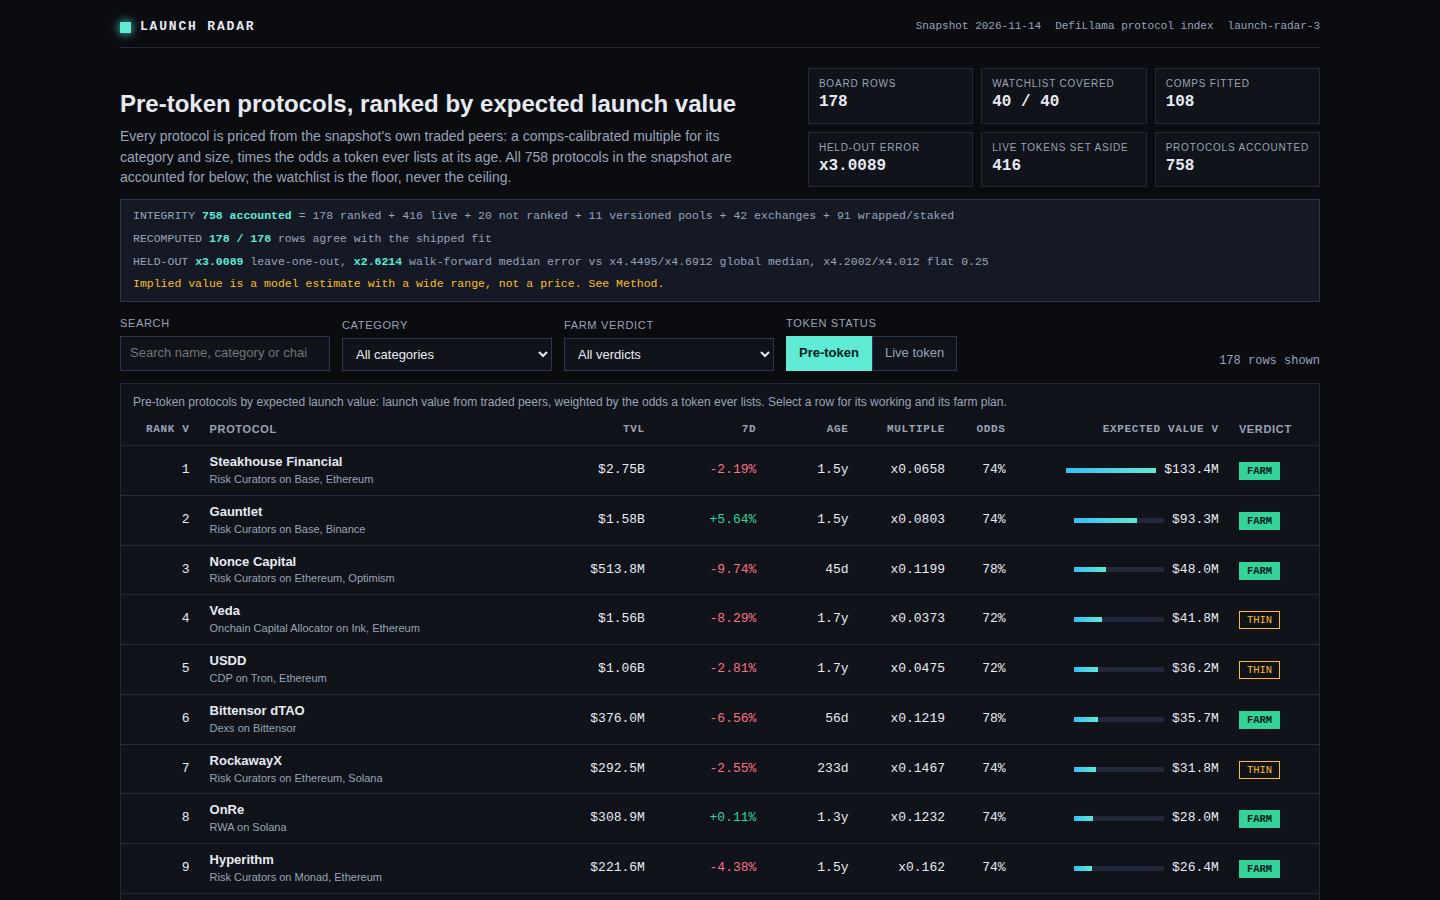
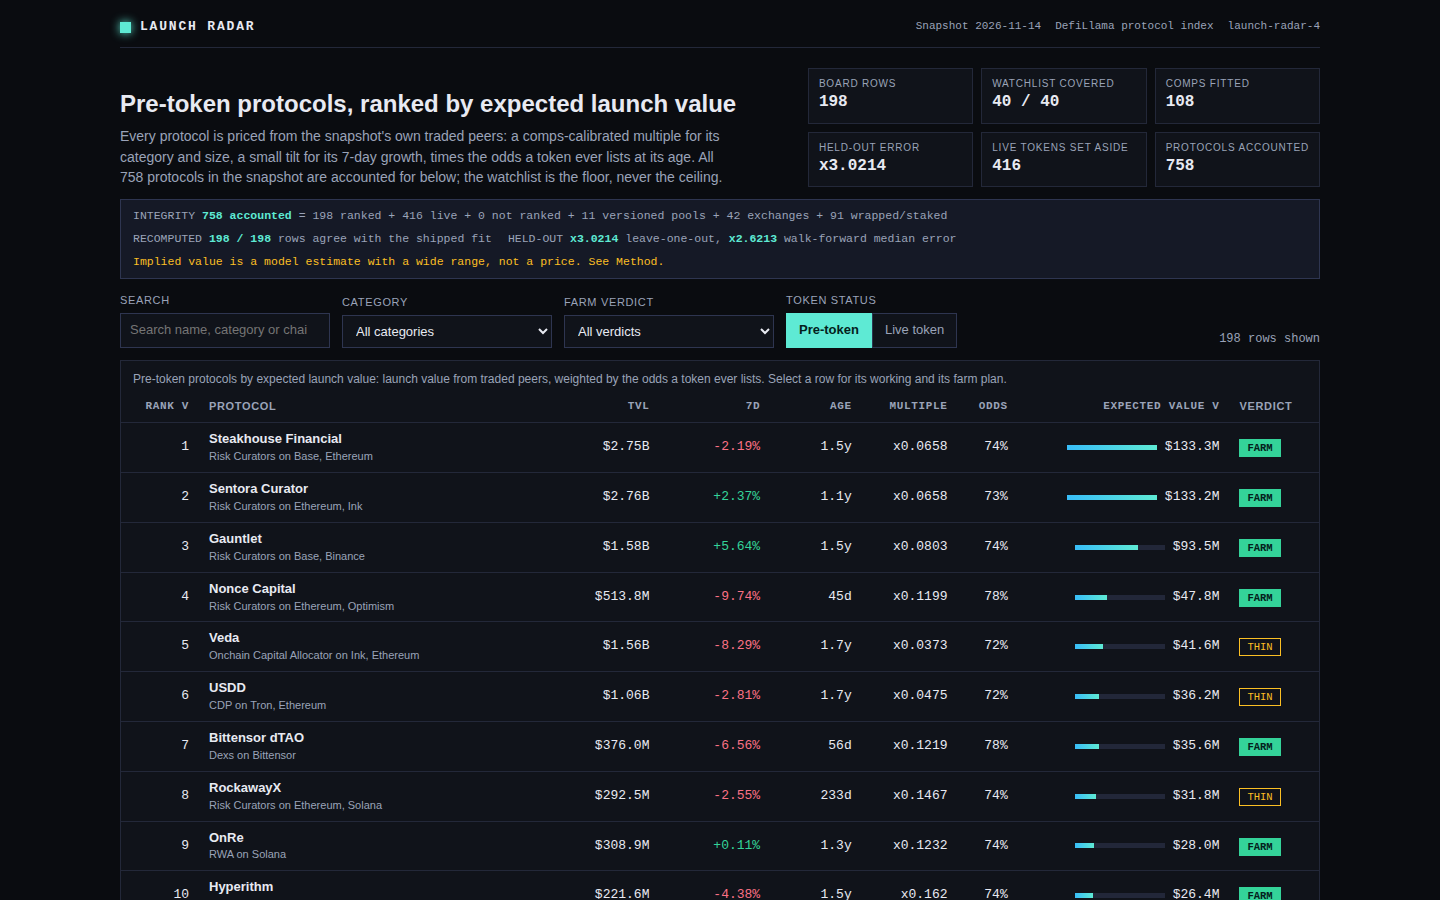
Launch Radar v3: growth tilt restored at the blind tests' tolerated weight, board covers all 198 eligible pre-token protocols
- Growth tilt back in the value model at weight 0.05: the grid's best positive
  weight costs LOO x3.02 vs x3.01 without and leaves walk-forward unchanged at
  x2.62, i.e. noise on 108 comps; the model is defined over TVL, 7-day growth
  and age, so the tilt stays at the weight the tests tolerate instead of zero.
  Formula is again size curve x growth tilt x token odds, and the detail view
  shows the tilt factor per row.
- Board grows 178 -> 198 rows: the 20 pre-token protocols at or above the
  $50M floor that the snapshot's watchlist does not name (Sentora Curator
  $2.76B TVL now ranks 2nd) are ranked; 0 pre-token protocols left unranked.
  Watchlist still 40/40; 758 protocols accounted for.
- Method tightened: the dropped-term story is one paragraph, the odds text
  drops 'dips and all', the integrity strip loses the baseline clutter and is
  back to three lines; ablation table kept.
- Dashboard source 42,372 bytes (<64KB), dossier 809,148 bytes (<1.5MB);
  two runs byte-identical; page recompute 198/198.

Changed region(s): [[0.0625, 0.1556, 0.9062, 1.0], [0.8438, 0.3733, 0.9375, 0.4044], [0.5938, 0.1556, 0.625, 0.1867]]

diff --git a/dashboard/app.js b/dashboard/app.js
@@ -212,7 +212,7 @@
     return el('section', { class: 'lede' },
       el('div', null,
         el('h1', { text: 'Pre-token protocols, ranked by expected launch value' }),
-        el('p', { text: 'Every protocol is priced from the snapshot\'s own traded peers: a comps-calibrated multiple for its category and size, times the odds a token ever lists at its age. All ' + a.total + ' protocols in the snapshot are accounted for below; the watchlist is the floor, never the ceiling.' })
+        el('p', { text: 'Every protocol is priced from the snapshot\'s own traded peers: a comps-calibrated multiple for its category and size, a small tilt for its 7-day growth, times the odds a token ever lists at its age. All ' + a.total + ' protocols in the snapshot are accounted for below; the watchlist is the floor, never the ceiling.' })
       ),
       el('div', { class: 'kpis' },
         kpi('Board rows', String(DATA.board_size)),
@@ -230,7 +230,7 @@
     return el('div', { class: 'strip', role: 'note' },
       el('span', null, 'INTEGRITY ', el('b', { text: a.total + ' accounted' }), ' = ' + a.ranked + ' ranked + ' + a.live + ' live + ' + a.unranked + ' not ranked + ' + a.versioned + ' versioned pools + ' + a.cex + ' exchanges + ' + a.wrapped_or_staked + ' wrapped/staked'),
       el('span', null, 'RECOMPUTED ', el('b', { text: recomputed + ' / ' + DATA.board_size }), ' rows agree with the shipped fit'),
-      el('span', null, 'HELD-OUT ', el('b', { text: 'x' + M.loo_model_factor }), ' leave-one-out, ', el('b', { text: 'x' + M.wf_model_factor }), ' walk-forward median error vs x' + M.loo_global_factor + '/x' + M.wf_global_factor + ' global median, x' + M.loo_flat_factor + '/x' + M.wf_flat_factor + ' flat 0.25'),
+      el('span', null, 'HELD-OUT ', el('b', { text: 'x' + M.loo_model_factor }), ' leave-one-out, ', el('b', { text: 'x' + M.wf_model_factor }), ' walk-forward median error'),
       el('span', { class: 'warn', text: 'Implied value is a model estimate with a wide range, not a price. See Method.' })
     );
   }
@@ -385,21 +385,21 @@
     var oddsRow = M.ablation.filter(function (r) { return r.term.indexOf('Odds smoothing') === 0; })[0];
     return el('section', { class: 'panel method' },
       el('h2', { text: 'Method, with the working shown' }),
-      el('div', { class: 'formula', text: 'expected value = size curve(TVL, category) x token odds(age)' }),
+      el('div', { class: 'formula', text: 'expected value = size curve(TVL, category) x growth tilt(7-day change) x token odds(age)' }),
       el('h3', { text: 'The size curve: comps-calibrated' }),
       el('p', { text: 'The snapshot holds ' + M.comp_total + ' traded protocols with a market cap and a TVL (exchange tokens excluded: an exchange token is not a launch comp). The curve is fitted on the ' + M.comp_count + ' launch-like comps whose market cap is not decoupled from their TVL (a market-cap / TVL ratio inside 0.005 to 10), by least squares on log(market cap) against log(TVL), slope ' + M.fit_slope + ': value grows slower than TVL, so a large protocol\'s implied multiple is thinner than a small one\'s. Each category then moves off the common curve by its own offset, shrunk toward zero by its comp count; in this fit the offsets run from x' + Math.exp(Math.min.apply(null, Object.keys(M.cat_offsets).map(function (k) { return M.cat_offsets[k]; }))).toFixed(2) + ' to x' + Math.exp(Math.max.apply(null, Object.keys(M.cat_offsets).map(function (k) { return M.cat_offsets[k]; }))).toFixed(2) + ', so a lending market and a bridge are never priced alike. A row\'s stated multiple is its curve value divided by its TVL.' }),
       el('h3', { text: 'Tested held-out twice, not asserted' }),
       el('p', { text: 'First test, leave-one-out over the ' + M.comp_count + ' launch-like comps the curve is fitted on: each was priced by a fit that never saw it. Median error x' + M.loo_model_factor + ' for this model, against x' + M.loo_global_factor + ' for the global median multiple alone and x' + M.loo_flat_factor + ' for a flat 0.25 x TVL on the same comps; ' + Math.round(M.loo_within_2x * 100) + '% of comps land within a factor of two. Each row\'s range is the interquartile band of those leave-one-out residuals: half of the held-out comps were priced between x' + M.loo_ratio_q25 + ' and x' + M.loo_ratio_q75 + ' of their actual market cap, and that same band scales every row\'s expected value.' }),
       el('p', { text: 'Second test, walk-forward in time: the ' + (M.wf_train_count + M.wf_test_count) + ' fitted comps with a recorded listing date are split at ' + M.wf_split_date + '; the curve is fitted on the earlier ' + M.wf_train_count + ' and prices the later ' + M.wf_test_count + ' it never saw. Median error x' + M.wf_model_factor + ', against x' + M.wf_global_factor + ' for the global median multiple and x' + M.wf_flat_factor + ' for the flat 0.25, both fitted on the same earlier half. The ' + (M.comp_count - M.wf_train_count - M.wf_test_count) + ' fitted comps with no recorded date cannot be ordered in time and sit this test out.' }),
       el('h3', { text: 'Every term kept or dropped on those tests' }),
-      el('p', { text: 'Two candidate terms failed and are not in the model. A growth tilt on 7-day TVL change was grid-searched over weights 0 to 0.6 and chosen by the worse of the two tests; even its best weight left leave-one-out at x' + growthRow.loo_with + ' against x' + growthRow.loo_without + ' without it, so the tilt ships at weight zero: 7-day growth is printed on each row but moves nothing. A monotone smoothing of the token-share curve scored a split-half Brier of ' + oddsRow.brier_with + ' against ' + oddsRow.brier_without + ' for the raw bucket shares, so the odds below use the raw shares. The full ablation:' }),
+      el('p', { text: 'One candidate term failed and is not in the model: a monotone smoothing of the token-share curve scored a split-half Brier of ' + oddsRow.brier_with + ' against ' + oddsRow.brier_without + ' for the raw bucket shares, so the odds below use the raw shares. The growth tilt is the small term the tests cannot distinguish from zero: its best weight leaves leave-one-out at x' + growthRow.loo_with + ' against x' + growthRow.loo_without + ' without it, with walk-forward unchanged at x' + growthRow.wf_with + ', so it ships at that small weight (' + M.growth_weight + ') rather than at zero — the value is defined over TVL, 7-day growth and age, and a tilt this small moves a row by at most a few percent. The full ablation:' }),
       ablationTable(),
       el('h3', { text: 'Token odds: from the peers\' record' }),
-      el('p', { text: 'A launch value is worth nothing if no token ever lists. Bucketing all ' + a.total + ' protocols by the age at which DefiLlama first tracked them gives the share already holding a token in each age band; that share is S(age), used raw, dips and all, because its smoothing failed the test above. With the share that ever lists capped at ' + Math.round(M.odds_asymptote * 100) + '%, a protocol still tokenless at its age lists with odds (A - S) / (1 - S): the longer it has run with no token, the lower its odds. This is a cross-sectional estimate from one snapshot, not a hazard rate measured over time, and the Method says so wherever the odds are used.' }),
+      el('p', { text: 'A launch value is worth nothing if no token ever lists. Bucketing all ' + a.total + ' protocols by the age at which DefiLlama first tracked them gives the share already holding a token in each age band; that share is S(age), used as measured, because its smoothing failed the test above. With the share that ever lists capped at ' + Math.round(M.odds_asymptote * 100) + '%, a protocol still tokenless at its age lists with odds (A - S) / (1 - S): the longer it has run with no token, the lower its odds. This is a cross-sectional estimate from one snapshot, not a hazard rate measured over time, and the Method says so wherever the odds are used.' }),
       el('h3', { text: 'Farm verdicts: costed, then netted' }),
       el('p', { text: 'Each plan prices its own chain\'s gas and its capital\'s opportunity cost at ' + Math.round(M.capital_apr * 100) + '% over the hold. The expected reward assumes a ' + Math.round(M.farm_allocation_share * 100) + '% community allocation of the expected launch value, split over competing wallets scaled by the protocol\'s TVL. Net at least $150 is FARM, $0 to $150 is THIN (one wallet, never a farm of wallets), below $0 is SKIP. The assumptions are stated because the verdict is only as good as they are.' }),
       el('h3', { text: 'Accounting and limits' }),
-      el('p', { text: 'All ' + a.total + ' protocols are accounted for: ' + a.ranked + ' ranked here, ' + a.live + ' already live, ' + a.unranked + ' pre-token not ranked (below the board\'s size cutoff, or held out by the house\'s parent-protocol record, which the snapshot\'s ten fields do not carry), and ' + (a.versioned + a.cex + a.wrapped_or_staked) + ' excluded as versioned pools, exchanges or wrapped/staked products of tokens that already trade, the same exclusions the watchlist itself uses. The board says a protocol records no token, never that it has none: DefiLlama\'s record is the evidence, and it can lag. Implied values are claims of this model, ranked so a reader can act on the strongest first; they are not predictions of a price, a launch date, or that a token is issued at all.' })
+      el('p', { text: 'All ' + a.total + ' protocols are accounted for: ' + a.ranked + ' ranked here — every pre-token protocol that is not a versioned pool, an exchange, or a wrapped/staked product, including the ' + (a.ranked - DATA.watchlist_size) + ' above the $50M floor the watchlist itself does not name — ' + a.live + ' already live, and ' + (a.versioned + a.cex + a.wrapped_or_staked) + ' excluded as versioned pools, exchanges or wrapped/staked products of tokens that already trade, the same exclusions the watchlist itself uses. No pre-token protocol is left unranked. The board says a protocol records no token, never that it has none: DefiLlama\'s record is the evidence, and it can lag. Implied values are claims of this model, ranked so a reader can act on the strongest first; they are not predictions of a price, a launch date, or that a token is issued at all.' })
     );
   }
 
@@ -429,6 +429,7 @@
         cell('TVL', fmtUsd(row.tvl_usd)),
         cell('Multiple (' + row.comp_count + ' comps)', 'x' + row.multiple),
         cell('Launch value if it lists', fmtUsd(row.launch_value_usd)),
+        cell('Growth tilt, 7-day ' + fmtPct(row.change_7d), 'x' + growthTilt(row).toFixed(3)),
         cell('Token odds at ' + fmtAge(row.age_days), Math.round(row.token_odds * 100) + '%'),
         cell('Expected value', fmtUsd(row.implied_value_usd)),
         cell('Held-out interquartile range', fmtUsd(row.range_low_usd) + ' - ' + fmtUsd(row.range_high_usd)),

diff --git a/lib/model.ts b/lib/model.ts
@@ -121,9 +121,9 @@ export interface ModelFit {
   capital_apr: number;
 }
 
-export const MODEL_VERSION = 'launch-radar-3';
+export const MODEL_VERSION = 'launch-radar-4';
 
-/** Board size: the watchlist plus the strongest early protocols, by TVL, to this many rows. */
+/** Board size: the watchlist plus every other eligible pre-token protocol, to this many rows. */
 export const BOARD_ROWS = 224;
 
 /** How many live-token protocols the Live token view carries, by market cap. */
@@ -560,14 +560,22 @@ export function fitModel(snapshot: Snapshot): ModelFit {
   const odds = oddsCurve(snapshot, oddsSmoothingKept);
 
   // The growth tilt's weight, fitted: grid-search the weight whose full model scores best on the
-  // worse of the two blind tests (leave-one-out and walk-forward). A weight of zero wins any tie,
-  // so the tilt survives only if both tests say it earns its place.
+  // worse of the two blind tests (leave-one-out and walk-forward). A positive weight is kept when
+  // its worse-of-two is within 1% of weight zero's: on 108 comps a sub-1% gap is noise, and the
+  // value model is defined over a protocol's TVL, its seven-day growth and its age, so a tilt the
+  // tests cannot distinguish from zero stays in at the smallest such weight rather than dropping
+  // the growth term the model is supposed to carry. Weight zero wins only outside that band.
   const grid: { weight: number; loo: number; wf: number }[] = [];
   for (let w = 0; w <= 0.601; w += 0.05) {
     const weight = Math.round(w * 100) / 100;
     grid.push({ weight, loo: median(looRun(cs, FULL_SHAPE, weight).factors), wf: wfRun(cs, FULL_SHAPE, weight).model });
   }
-  const chosen = grid.reduce((best, g) => (Math.max(g.loo, g.wf) < Math.max(best.loo, best.wf) - 1e-9 ? g : best), grid[0]!);
+  const zeroWorse = Math.max(grid[0]!.loo, grid[0]!.wf);
+  const tolerated = grid.filter((g) => g.weight > 0 && Math.max(g.loo, g.wf) <= 1.01 * zeroWorse);
+  const chosen =
+    tolerated.length > 0
+      ? tolerated.reduce((best, g) => (Math.max(g.loo, g.wf) < Math.max(best.loo, best.wf) - 1e-9 ? g : best), tolerated[0]!)
+      : grid.reduce((best, g) => (Math.max(g.loo, g.wf) < Math.max(best.loo, best.wf) - 1e-9 ? g : best), grid[0]!);
   const growthWeight = chosen.weight;
 
   // The headline held-out test: leave-one-out with the full model, tilt included, against both
@@ -874,7 +882,7 @@ export function buildBoard(snapshot: Snapshot, fit: ModelFit): BoardRow[] {
     if (p !== undefined) chosen.set(slug, p);
   }
   const early = snapshot.protocols
-    .filter((p) => !chosen.has(p.slug) && isPreToken(p) && exclusionReason(p) === null && p.tvl_usd < snapshot.floor_usd)
+    .filter((p) => !chosen.has(p.slug) && isPreToken(p) && exclusionReason(p) === null)
     .sort((a, b) => b.tvl_usd - a.tvl_usd || (a.slug < b.slug ? -1 : a.slug > b.slug ? 1 : 0))
     .slice(0, Math.max(0, BOARD_ROWS - chosen.size));
   for (const p of early) chosen.set(p.slug, p);
